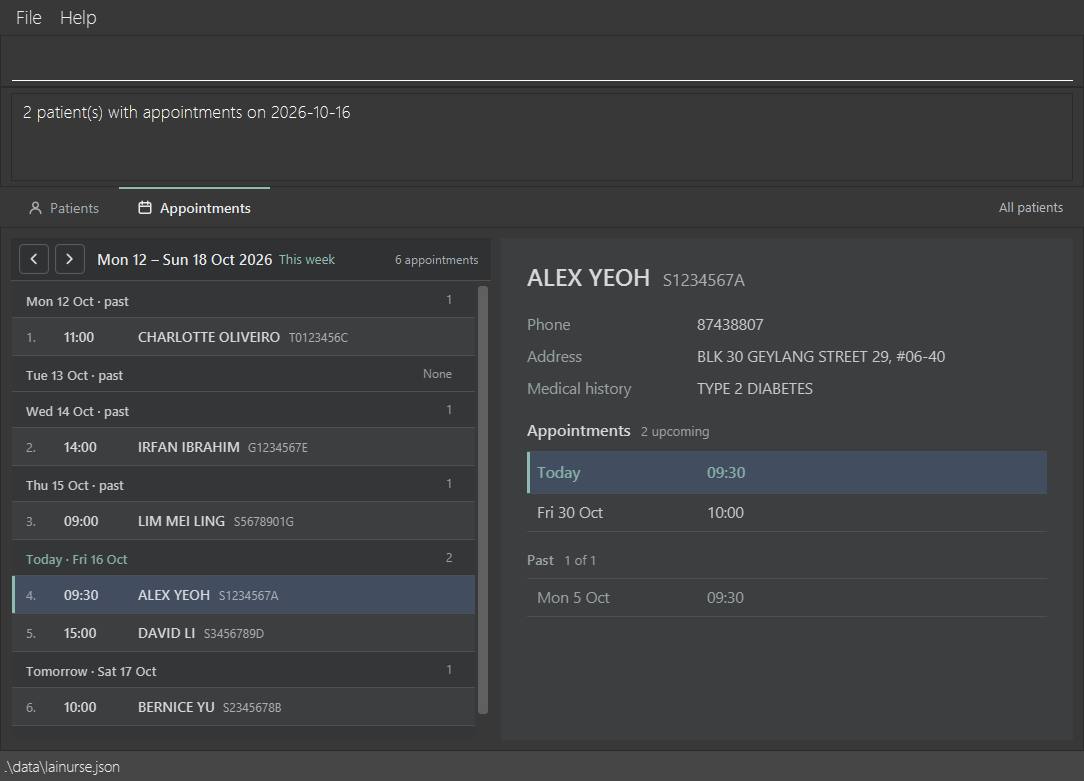
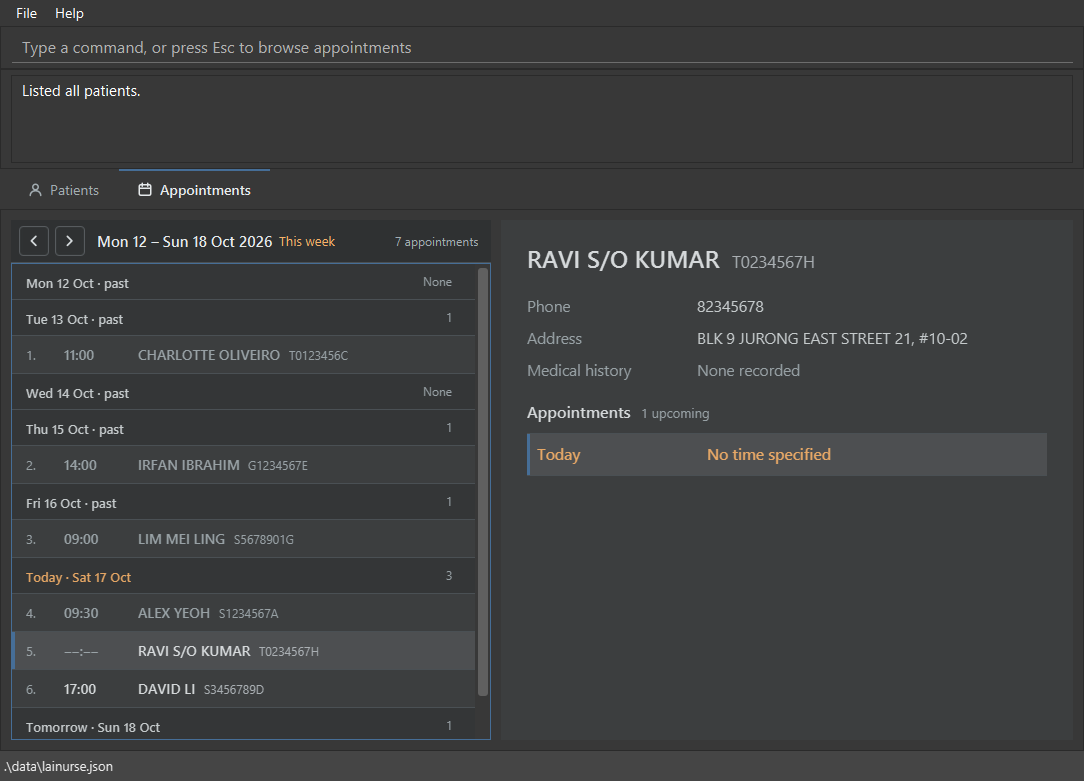
Retake the guide screenshots
The UG's screenshots still show the views before this PR: the tab bar
summary, the old accent colour, "No time" and an unsorted today.

Let's retake both, in the same window size and with the same test
patients, moved to today's date. The weekly view now shows a passed
appointment greyed out, and one with no time selected right above the
next appointment, so its caption says so.

diff --git a/docs/UserGuide.md b/docs/UserGuide.md
@@ -85,7 +85,7 @@ LaiNurse shows one view at a time. The tabs under the result display switch betw
 
 An appointment has passed once its time today has gone by, or once its day is over if it has no time. Orange marks what is today, such as today's heading and today's appointments. A blue marks what is selected, and what has the keyboard focus.
 
-![The weekly appointment view, with today's first appointment selected](images/AppointmentView.png)
+![The weekly appointment view, with the first appointment that has not passed selected](images/AppointmentView.png)
 
 Commands switch the view. `viewappt` shows **Appointments**, and `list`, `find`, `view`, `add` and `edit` show **Patients**. Other commands, such as `delete`, `clear` and `help`, keep the view that is shown. You can also click a tab, or move to the tabs with the keyboard and press Left or Right. Switching views this way runs no command, so each view still shows what it showed before.
 
